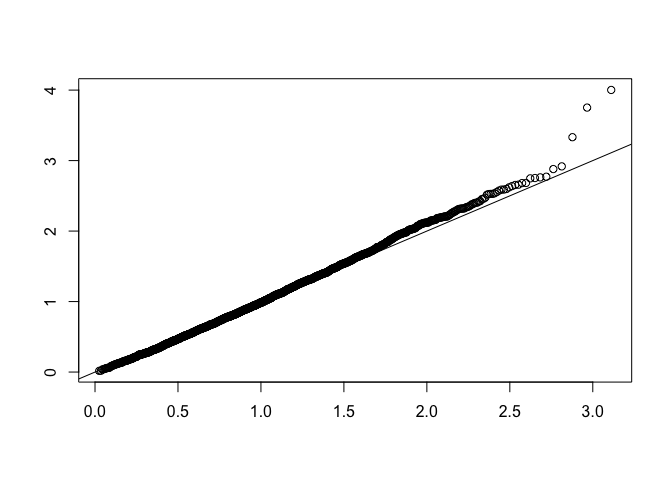
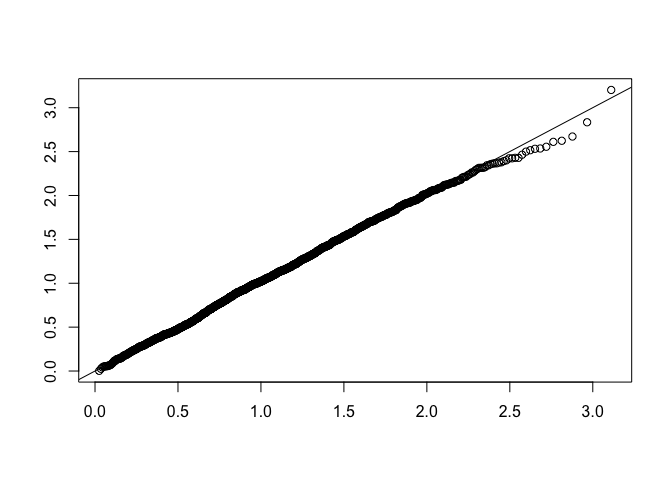
Tutorials1

diff --git a/tutorials.md b/tutorials.md
@@ -10,33 +10,7 @@ Let's clear space and load required libraries
     rm(list=ls())
     library(GeoModels)
     require(fields)
-
-    ## Loading required package: fields
-
-    ## Loading required package: spam
-
-    ## Loading required package: dotCall64
-
-    ## Loading required package: grid
-
-    ## Spam version 2.1-2 (2017-12-21) is loaded.
-    ## Type 'help( Spam)' or 'demo( spam)' for a short introduction 
-    ## and overview of this package.
-    ## Help for individual functions is also obtained by adding the
-    ## suffix '.spam' to the function name, e.g. 'help( chol.spam)'.
-
-    ## 
-    ## Attaching package: 'spam'
-
-    ## The following objects are masked from 'package:base':
-    ## 
-    ##     backsolve, forwardsolve
-
-    ## Loading required package: maps
-
     require(gsl)
-
-    ## Loading required package: gsl
 
 Set model:
 
@@ -108,11 +82,11 @@ Estimation with pairwise likelihood:
     ## Number of estimated parameters: 4 
     ## 
     ## Type of convergence: Successful 
-    ## Maximum log-Composite-Likelihood value: -2602.93
+    ## Maximum log-Composite-Likelihood value: -2333.09
     ## 
     ## Estimated parameters:
     ##    mean    mean1    scale    shape  
-    ## -0.2837   0.4518   0.3538   1.8575  
+    ## -0.3174   0.5141   0.3206   2.0231  
     ## 
     ## ##################################################################
 
